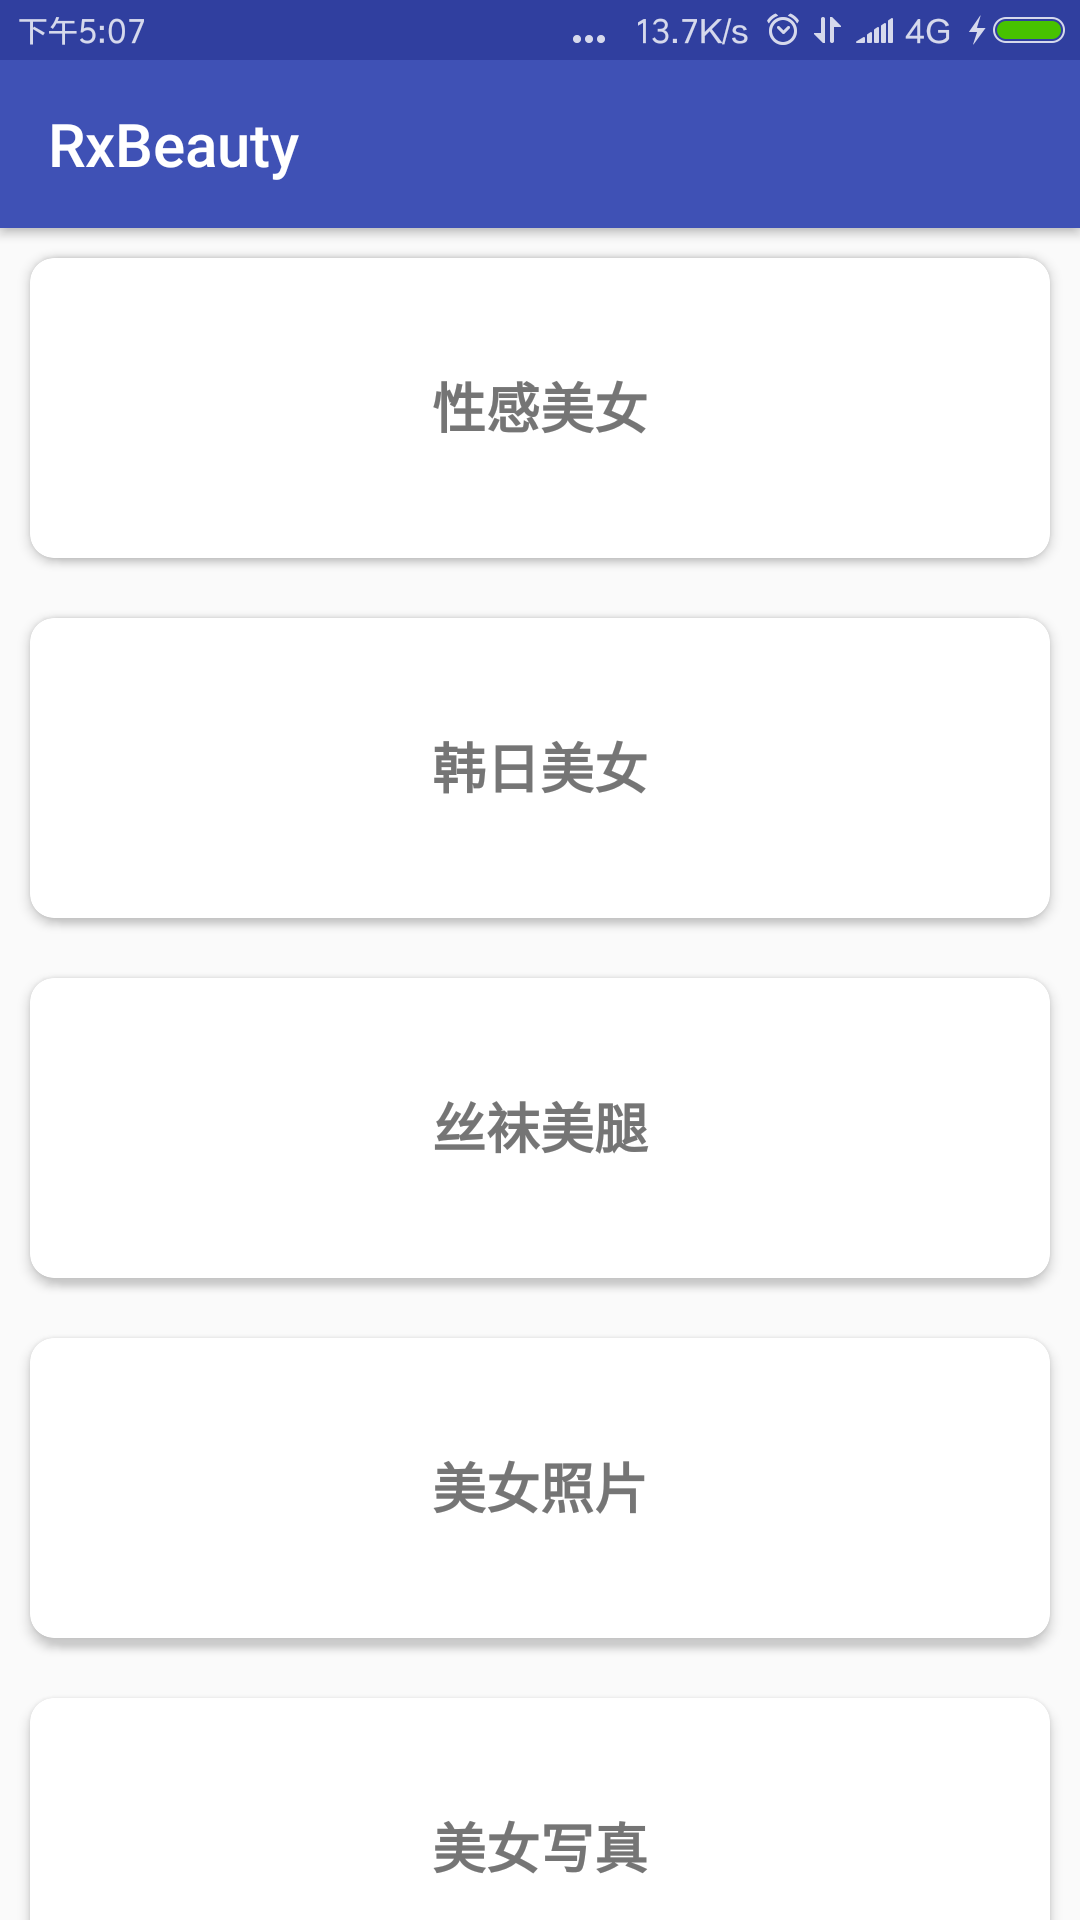
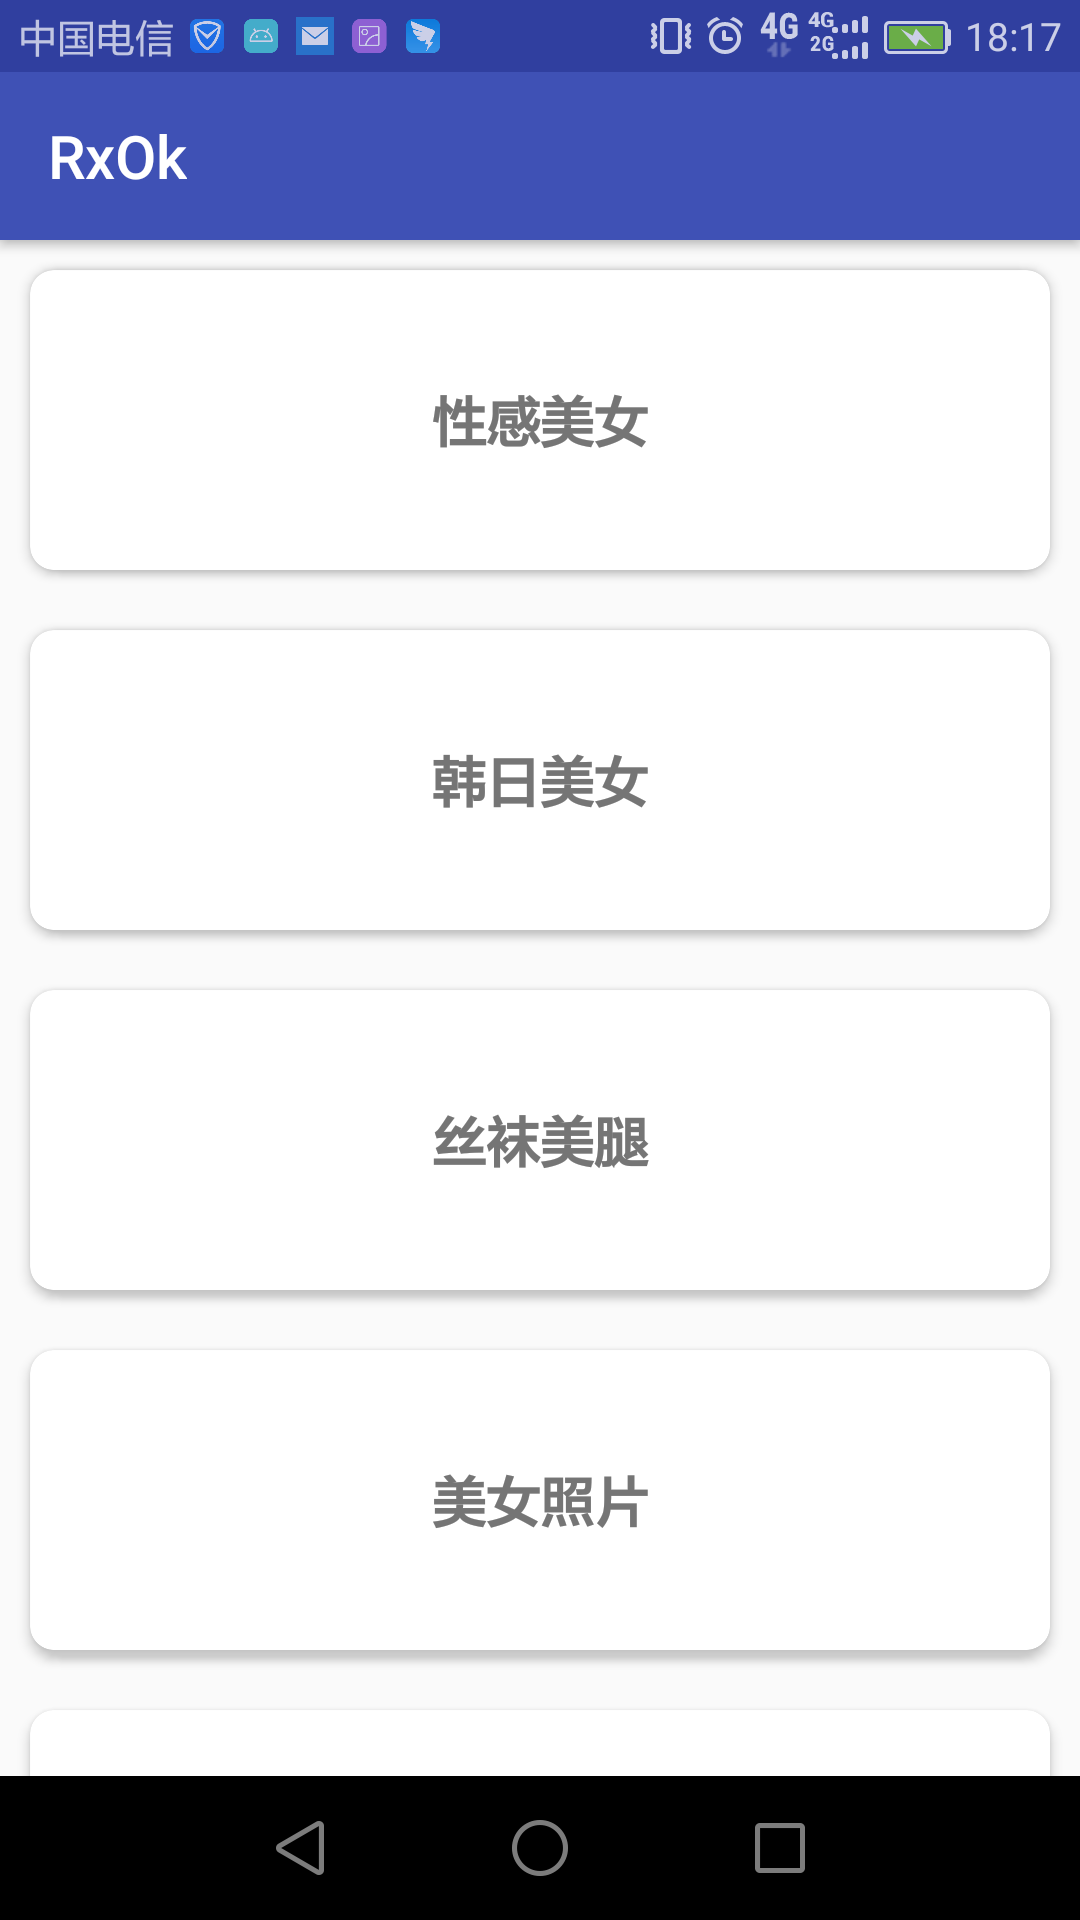
rxok

diff --git a/README.md b/README.md
@@ -1,9 +1,9 @@
-# RxBeauty
+# RxOk
 基于mvp rxjava retrofit2 搭建的框架，学习参考之用，一个可以看美女的APP
  
  
 # 下载
-https://github.com/Liberations/RxBeauty/raw/master/apk/RxBeauty.apk
+https://github.com/Zachary46/RxOk/raw/master/apk/RxOk.apk
 
 # 图片欣赏
 ![首页](https://github.com/Liberations/RxBeauty/blob/master/pic/1.png)
